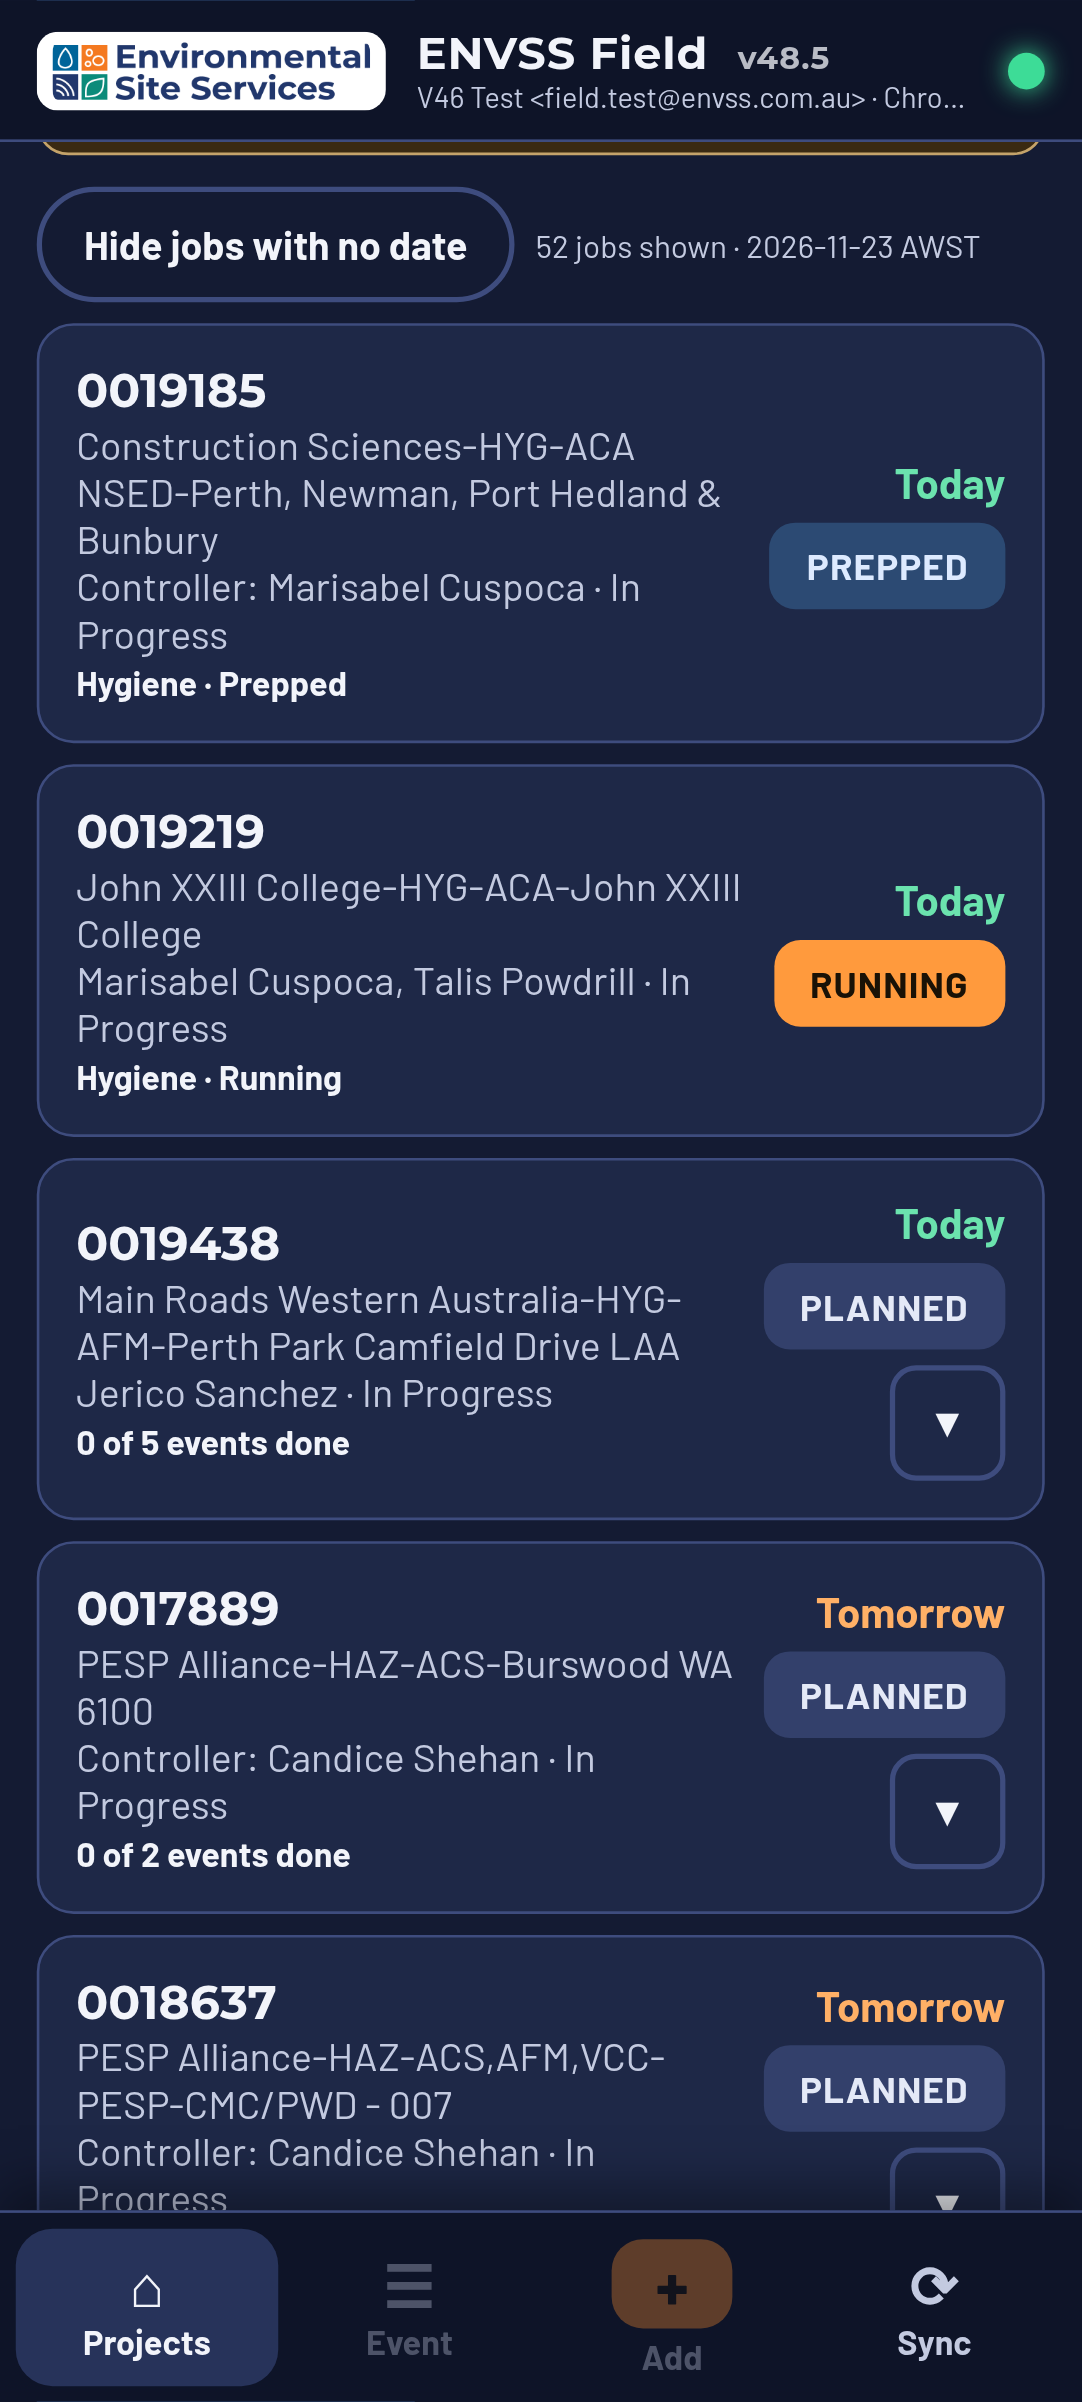
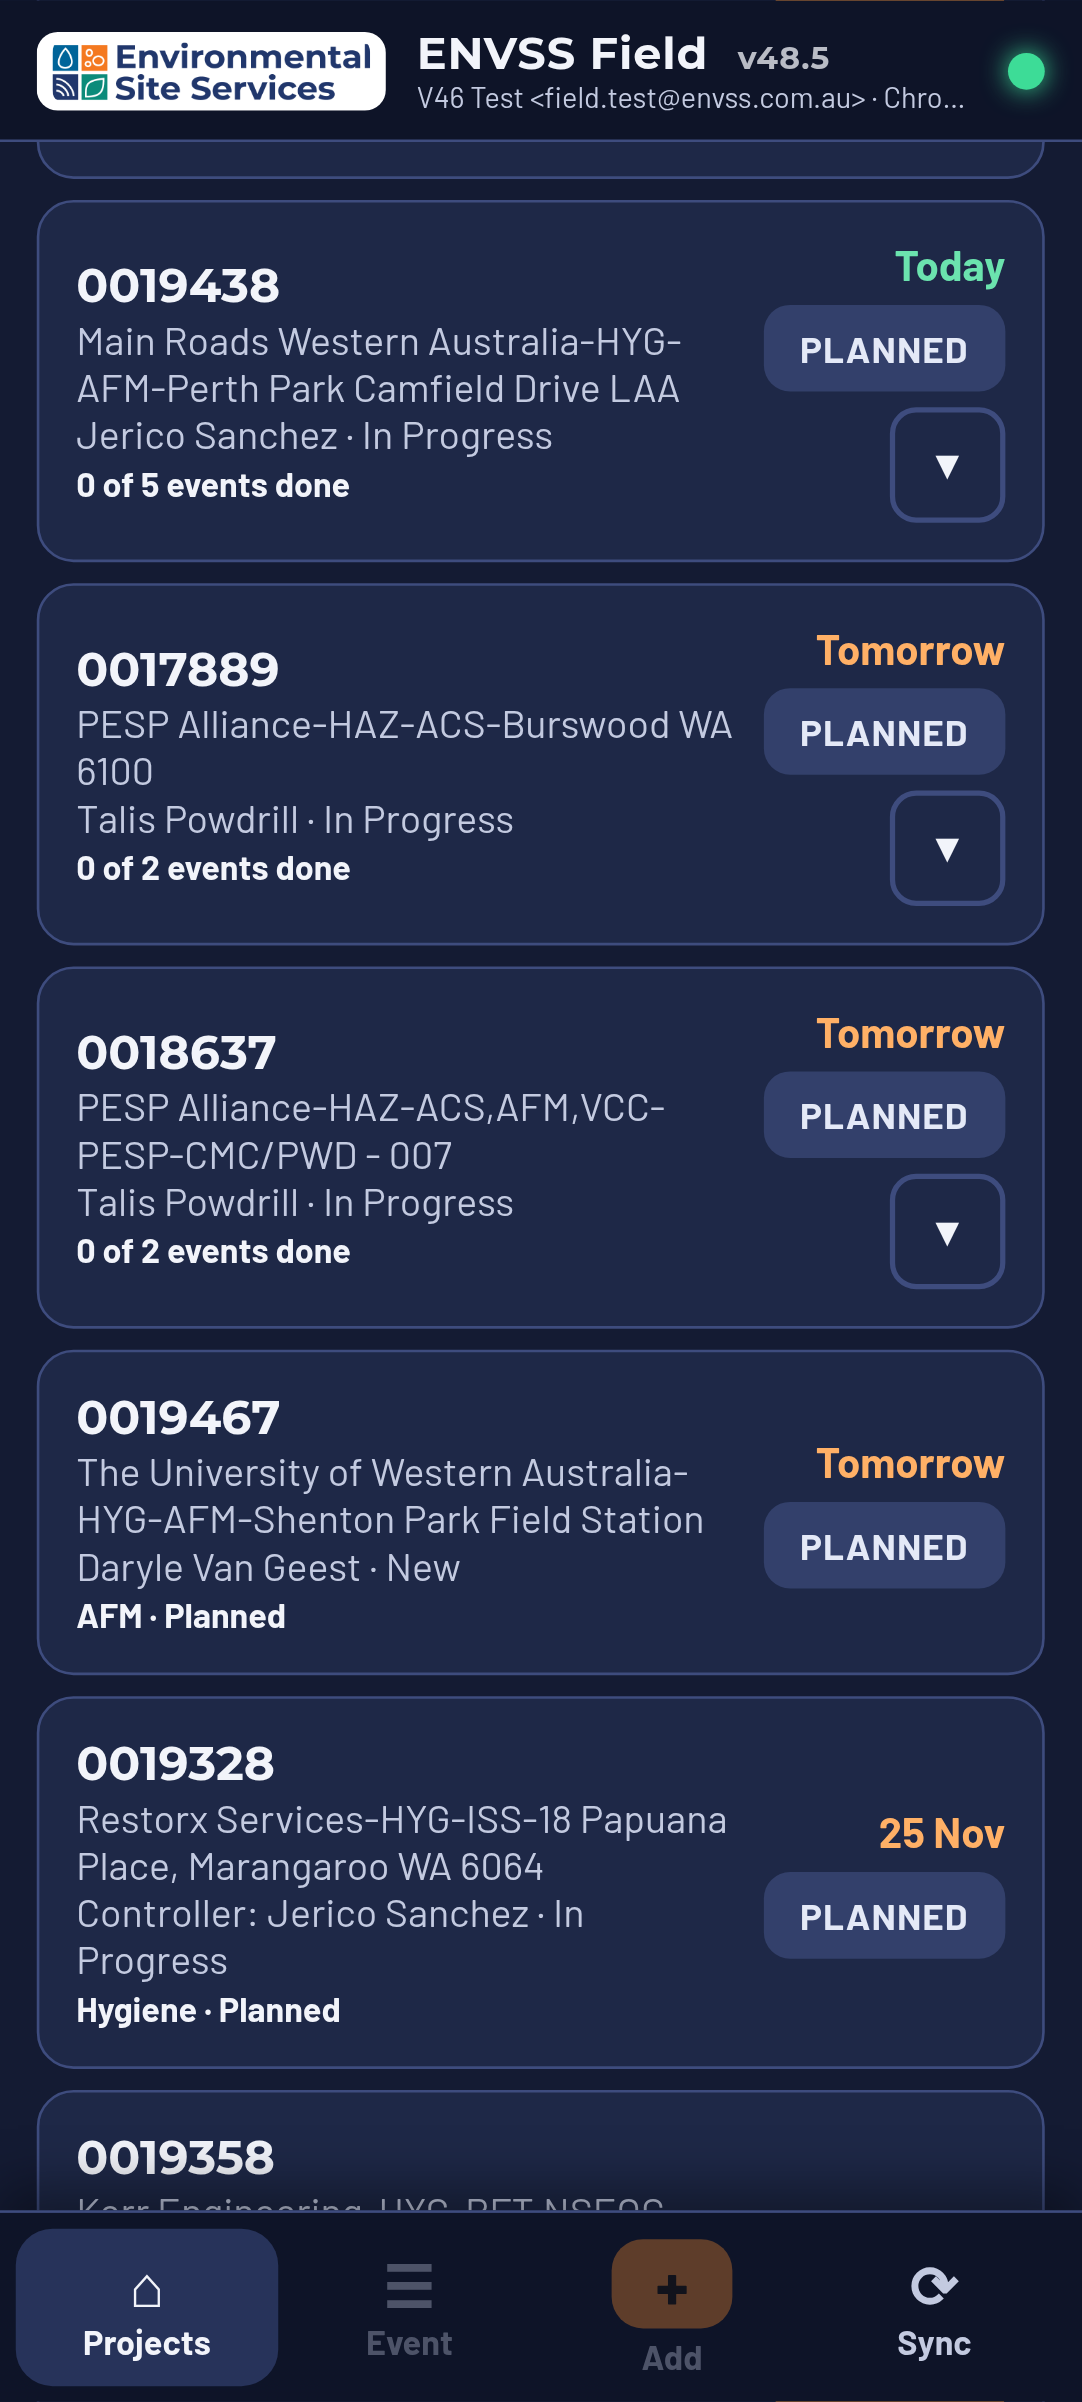
Draft: AFM cards use Sample Submitted by from samples, not the event.
Layout A now shows distinct sample-by names across each AFM event's samples. Hygiene cards are unchanged (report-submitted-by). Dropped the unused afm_view_add_attended_by.sql draft; v_field_afm_samples already exposes the field, so no SQL is applied.

diff --git a/work/projlist/review.js b/work/projlist/review.js
@@ -117,9 +117,30 @@
     return p.shortName || String(p.name || "").replace(/^\d{7}[-_ ]*/, "") || p.number;
   }
   function typeLab(t) { return t === "fibre" ? "AFM" : "Hygiene"; }
+  function isAfmEvent(ev) {
+    return !!(ev && (ev.source === "afm" || (ev.type === "fibre" && ev.source !== "hyg")));
+  }
+  function uniqueNames(list) {
+    const out = [];
+    const seen = new Set();
+    const arr = Array.isArray(list) ? list : String(list == null ? "" : list).split(/,\s*/);
+    arr.forEach(function (n) {
+      const t = String(n || "").trim();
+      const k = t.toLowerCase();
+      if (t && !seen.has(k)) { seen.add(k); out.push(t); }
+    });
+    return out;
+  }
   function nameOf(ev, p) {
-    const att = ev && String(ev.attendee || "").trim();
-    if (att) return { text: att, fallback: false };
+    /* AFM: distinct Sample Submitted by (sample-by) names on that event's samples.
+       Never use report-submitted-by on the AFM event. Hygiene still uses attendee. */
+    if (isAfmEvent(ev)) {
+      const names = uniqueNames(ev.samplers != null ? ev.samplers : ev.sampledBy);
+      if (names.length) return { text: names.join(", "), fallback: false };
+    } else {
+      const att = ev && String(ev.attendee || "").trim();
+      if (att) return { text: att, fallback: false };
+    }
     if (p && String(p.controller || "").trim()) return { text: "Controller: " + p.controller.trim(), fallback: true };
     return { text: "No controller", fallback: true };
   }
@@ -253,6 +274,6 @@
   };
 
   window.envssProjlist = {
-    todayYmd, nameOf, groupOf, nextDate, pickCurrent, evsOf, listForMode, GROUPS
+    todayYmd, nameOf, isAfmEvent, uniqueNames, groupOf, nextDate, pickCurrent, evsOf, listForMode, GROUPS
   };
 })();

diff --git a/field.html b/field.html
@@ -10188,7 +10188,6 @@ window.HIRE_CATALOG = HIRE_CATALOG;
         task: text(f["task-description"]), tatLabel: text(f.selection), tat: tat(text(f.selection)),
         protocol: proto(text(f["monitoring-type"])), rotameter: rel(f.rotameter).title,
         collectedBy: list(f["samples-collected-by"]).join(", "),
-        attendedBy: list(f["report-submitted-by"]).join(", "),
         siteContact: text(f["site-contact-namephone"]),
         siteAddress: loc && typeof loc === "object" ? clean(loc.address || "") : text(loc),
         poc, totalSamples: num(f.calculation),

diff --git a/work/projlist/README.md b/work/projlist/README.md
@@ -3,33 +3,36 @@
 Draft only. Not published. Branch: `feat/project-list-review` at `/workspace/envss-projlist` (from main `ef2874a` / v48.5).
 
 Layout A: grouped by when work is happening, one card per job number, no-date and test jobs collapsed.
-Name on the card is Podio **Site Works Attended by** (`report-submitted-by`) for the next/current event; if that is empty, **Controller: {name}**. Expanded multi-event cards show each event's attendee.
+
+Name on the card:
+
+- Hygiene events: Podio **Site Works Attended by** (`report-submitted-by`) for the next/current event. If that is empty, **Controller: {name}**.
+- AFM events: distinct **Sample Submitted by** names from that event's AFM samples (`sample-by` on app 21120488). This already comes through `v_field_afm_samples` and the app's `sampledBy` mapping. Do **not** use `report-submitted-by` on the AFM event. If every sample is empty, fall back to **Controller: {name}**. Expanded multi-event cards show each event's own name.
+
+The earlier draft `afm_view_add_attended_by.sql` (adding `report-submitted-by` to `v_field_afm_events`) was dropped. No SQL change is needed, and none was applied.
 
 ## Tests
 
 `ROOT=/workspace/envss-projlist node work/projlist/test.mjs`
 
-32 passed (Pixel 7 + Chromebook). Supabase is mocked in memory; production is not written to.
+36 passed (Pixel 7 + Chromebook). Supabase is mocked in memory; production is not written to.
 
 ## Screenshots
 
 All under `work/projlist/shots/`.
 
-Current v48.5 list (for comparison): `current-pixel7.png`, `current-chromebook.png`, plus `-full` and `-mid`.
+Current v48.5 list (for comparison): `current-pixel7.png`, `current-chromebook.png`, plus `-full`.
 
 Layout A:
+
 - `a-pixel7.png` / `a-chromebook.png` — On site today
 - `a-pixel7-full.png` / `a-chromebook-full.png`
-- `a-pixel7-9219.png` / `a-chromebook-9219.png` — 0019219 with both attendees, expanded
-- `a-pixel7-expanded-8637.png` / `a-chromebook-expanded-8637.png` — 0018637, attendee vs labelled controller
+- `a-pixel7-9219.png` / `a-chromebook-9219.png` — 0019219 hygiene, both attendees, expanded
+- `a-pixel7-expanded-8637.png` / `a-chromebook-expanded-8637.png` — 0018637 AFM, Marisabel on 0018 and Talis on 0020 from sample-by
+- `a-pixel7-9467-afm.png` / `a-chromebook-9467-afm.png` — 0019467 single-event AFM card, sampler Daryle Van Geest
+- `a-pixel7-7889-afm.png` / `a-chromebook-7889-afm.png` — 0017889 AFM card, next event sampler Talis Powdrill
 - `a-pixel7-expanded-9321.png` / `a-chromebook-expanded-9321.png` — 0019321, 3 of 5 events done
-- `a-pixel7-groups-lower.png` — Next 7 days / later
-- `a-pixel7-nodate.png` — collapsed no-date / test groups
 
 Preview B shots are leftover from the earlier review and are not the proposed layout.
 
 Re-take: `ROOT=/workspace/envss-projlist node work/projlist/shot.mjs` (Supabase mocked).
-
-## AFM view note
-
-`afm_view_add_attended_by.sql` is a draft note only. Not applied. `v_field_afm_events` does not yet include `report-submitted-by`. The HYG view already does.
